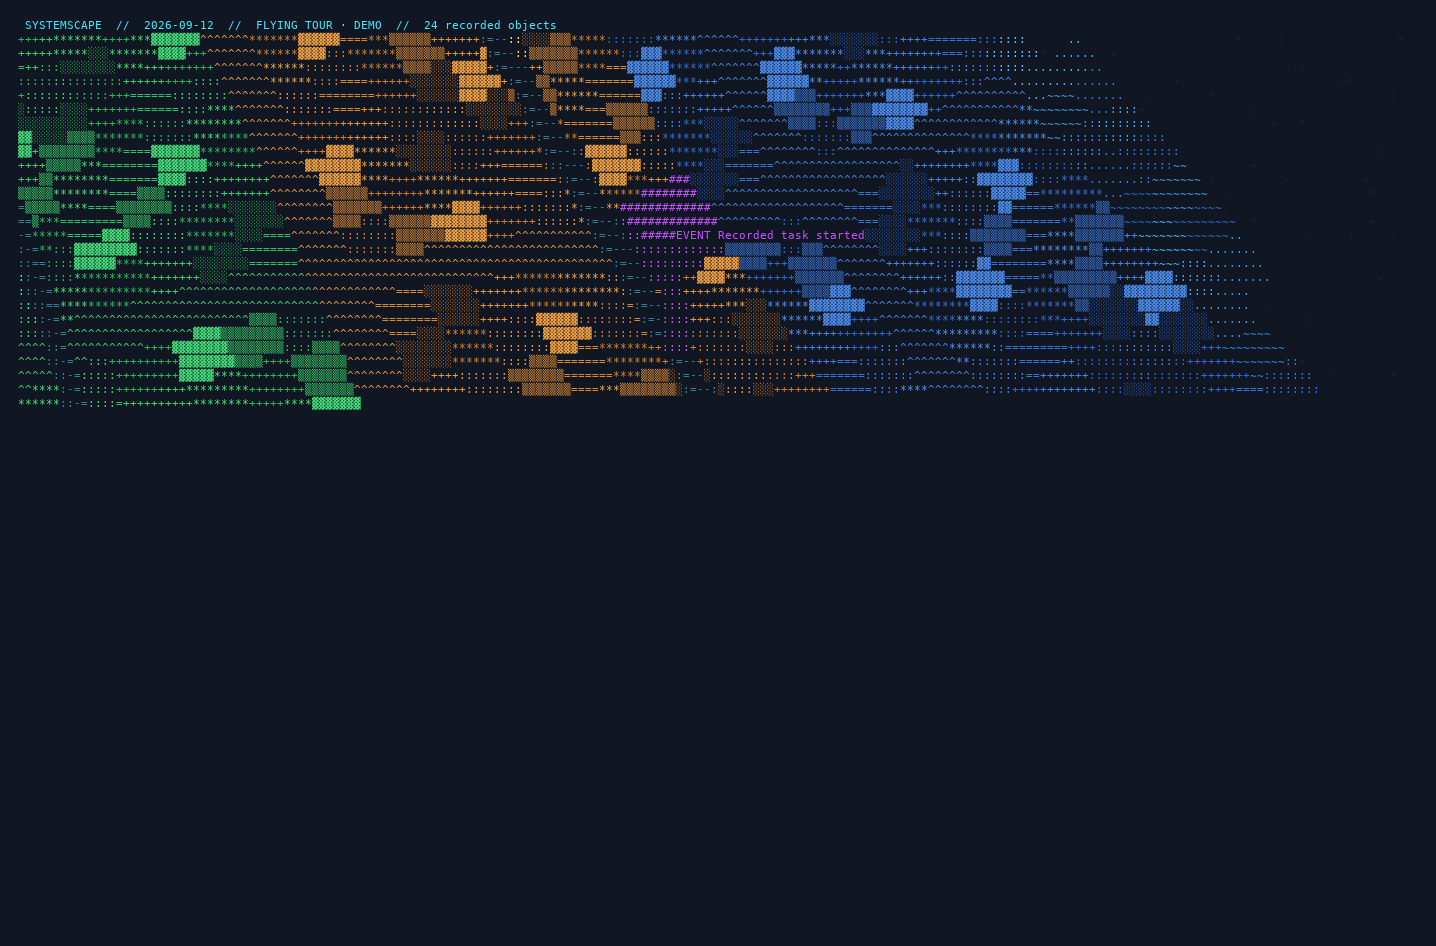
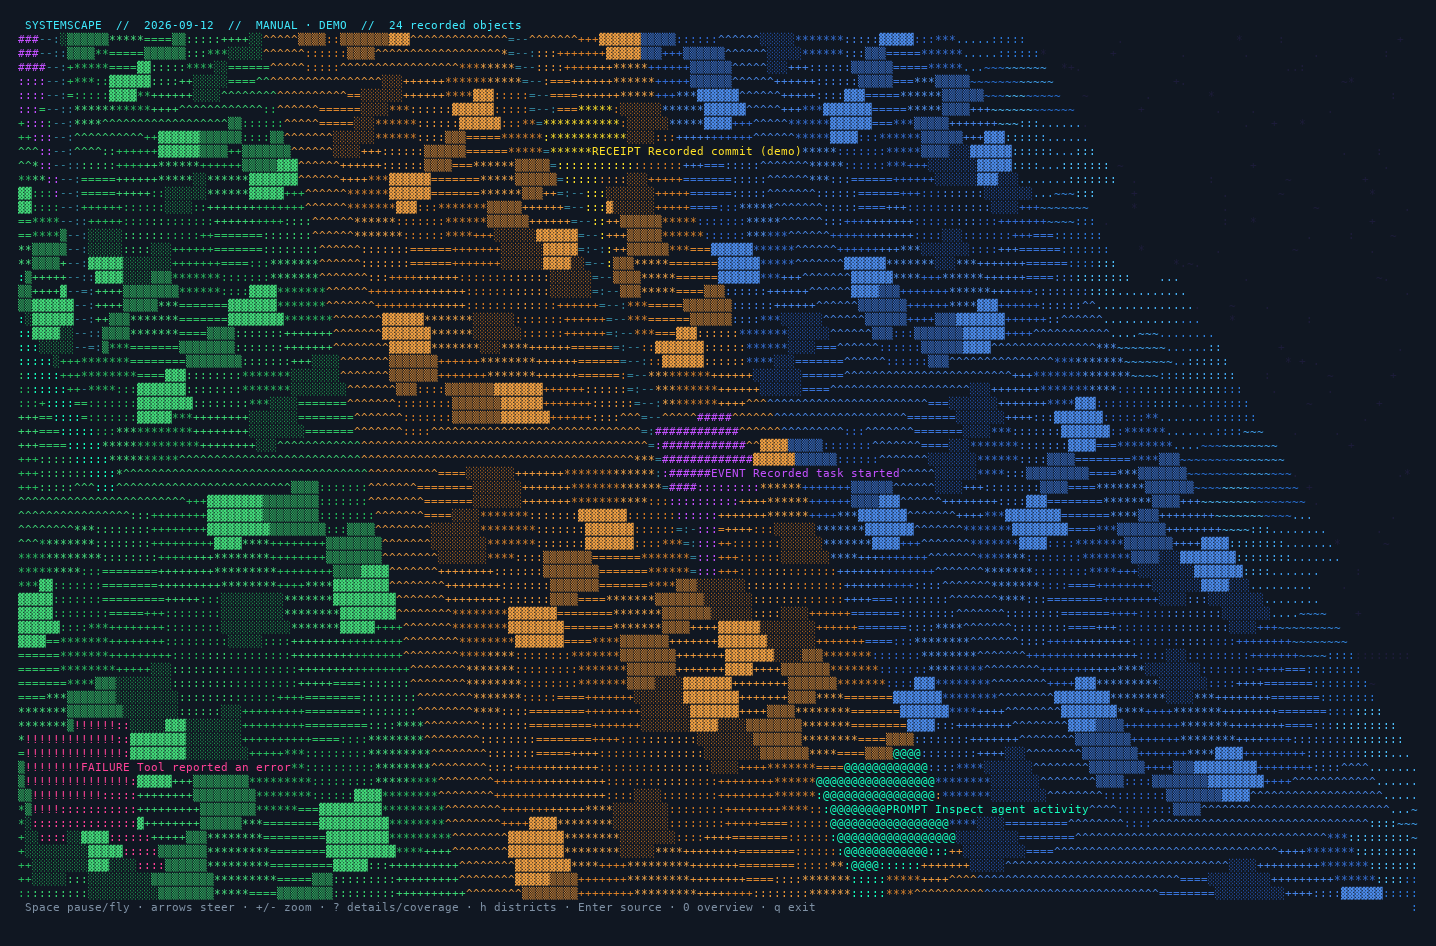
fix: publish synchronized terrain frames and capture complete screenshots

Changed region(s): [[0.0, 0.0, 0.9805, 0.981]]

diff --git a/src/activity.rs b/src/activity.rs
@@ -972,7 +972,10 @@ pub fn run(args: &[String]) -> io::Result<()> {
                 ),
                 demo,
             );
-            view.display_render()?;
+            // Build and publish a whole frame atomically to terminals supporting
+            // synchronized updates (including tmux), avoiding half-painted terrain.
+            let frame = format!("\x1b[?2026h{view}\x1b[?2026l");
+            io::stdout().write_all(frame.as_bytes())?;
             io::stdout().flush()?;
             dirty = false;
         }

diff --git a/scripts/capture-screenshots.py b/scripts/capture-screenshots.py
@@ -51,7 +51,9 @@ def raster(raw, destination):
 
 try:
     tmux('new-session', '-d', '-s', 'capture', '-x', '200', '-y', '65', f'{binary} --activity --demo')
-    time.sleep(0.6)
+    time.sleep(1.0)
+    tmux('send-keys', '-t', 'capture:0', 'Space')
+    time.sleep(0.4)
     for name, key in [('activity-3d', None), ('activity-flat', 'f')]:
         if key:
             tmux('send-keys', '-t', 'capture:0', key)

diff --git a/docs/SCREENSHOTS.md b/docs/SCREENSHOTS.md
@@ -1,7 +1,7 @@
 # Reproducing the README screenshots
 
 The README PNGs are rasterisations of ANSI cells captured from real 200×65 tmux
-panes. They are not concept art. Activity uses `--demo`; telemetry uses `--demo`
+panes. The activity tour is paused for each complete capture. They are not concept art. Activity uses `--demo`; telemetry uses `--demo`
 for its history and still polls the local system for its NOW bar.
 
 ```sh
